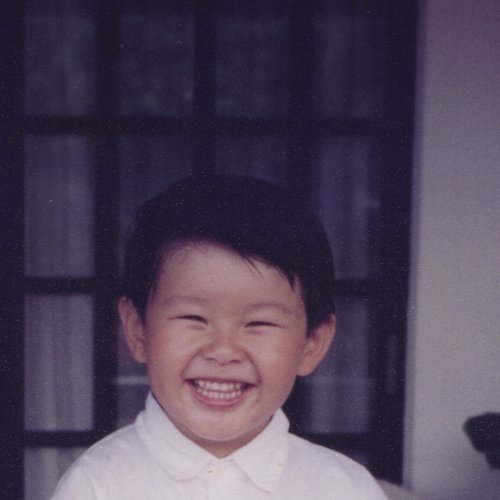
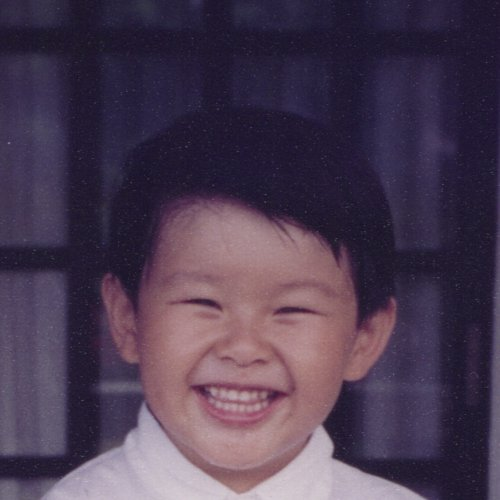
Tighter crop on laugh photo, centered BUZZ text with wide letter-spacing

diff --git a/public/index.html b/public/index.html
@@ -81,6 +81,9 @@
 
     #buzz-btn {
       position: relative;
+      display: flex;
+      align-items: center;
+      justify-content: center;
       width: min(60vw, 280px);
       height: min(60vw, 280px);
       border-radius: 50%;
@@ -90,12 +93,16 @@
       border: 6px solid #c0392b;
       box-shadow: 0 10px 0 #7b241c, 0 16px 34px rgba(0,0,0,0.5);
       color: #fff;
-      font-size: 1.8rem;
-      font-weight: 900;
-      letter-spacing: 3px;
-      text-shadow: 0 2px 6px rgba(0,0,0,0.8), 0 0 18px rgba(0,0,0,0.6);
       cursor: pointer;
       transition: transform 0.08s, box-shadow 0.08s, background 0.15s, border-color 0.15s;
+    }
+
+    #buzz-text {
+      font-size: 1.8rem;
+      font-weight: 900;
+      letter-spacing: 16px;
+      text-shadow: 0 2px 6px rgba(0,0,0,0.8), 0 0 18px rgba(0,0,0,0.6);
+      pointer-events: none;
     }
 
     #buzz-btn:active {
@@ -139,7 +146,9 @@
 
   <div id="game">
     <div id="whoami">Playing as <span id="my-name"></span></div>
-    <button id="buzz-btn">BUZZ</button>
+    <button id="buzz-btn">
+      <span id="buzz-text">BUZZ</span>
+    </button>
     <div id="result"></div>
   </div>
 
@@ -153,6 +162,7 @@
   const joinBtn = document.getElementById("join-btn");
   const myNameEl = document.getElementById("my-name");
   const buzzBtn = document.getElementById("buzz-btn");
+  const buzzText = document.getElementById("buzz-text");
   const resultEl = document.getElementById("result");
 
   let myName = "";
@@ -179,7 +189,7 @@
     if (hasBuzzed) return;
     hasBuzzed = true;
     buzzBtn.classList.add("buzzed");
-    buzzBtn.textContent = "BUZZED!";
+    buzzText.textContent = "BUZZED!";
     socket.emit("buzz", myName);
   });
 
@@ -197,7 +207,7 @@
     if (round.buzzes.length === 0 && hasBuzzed) {
       hasBuzzed = false;
       buzzBtn.classList.remove("buzzed");
-      buzzBtn.textContent = "BUZZ";
+      buzzText.textContent = "BUZZ";
       resultEl.textContent = "";
     }
   });
